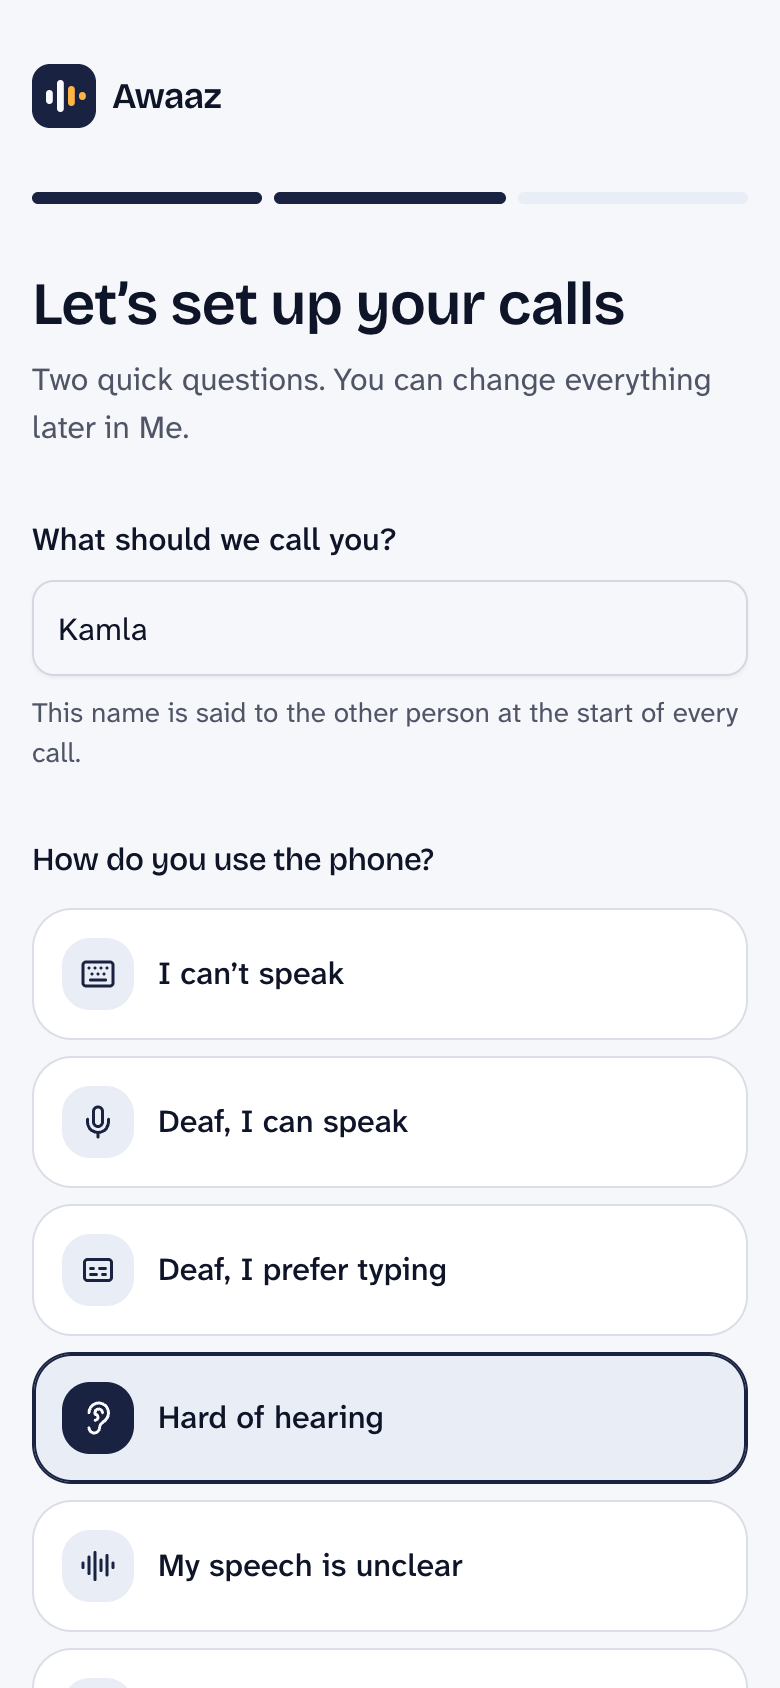
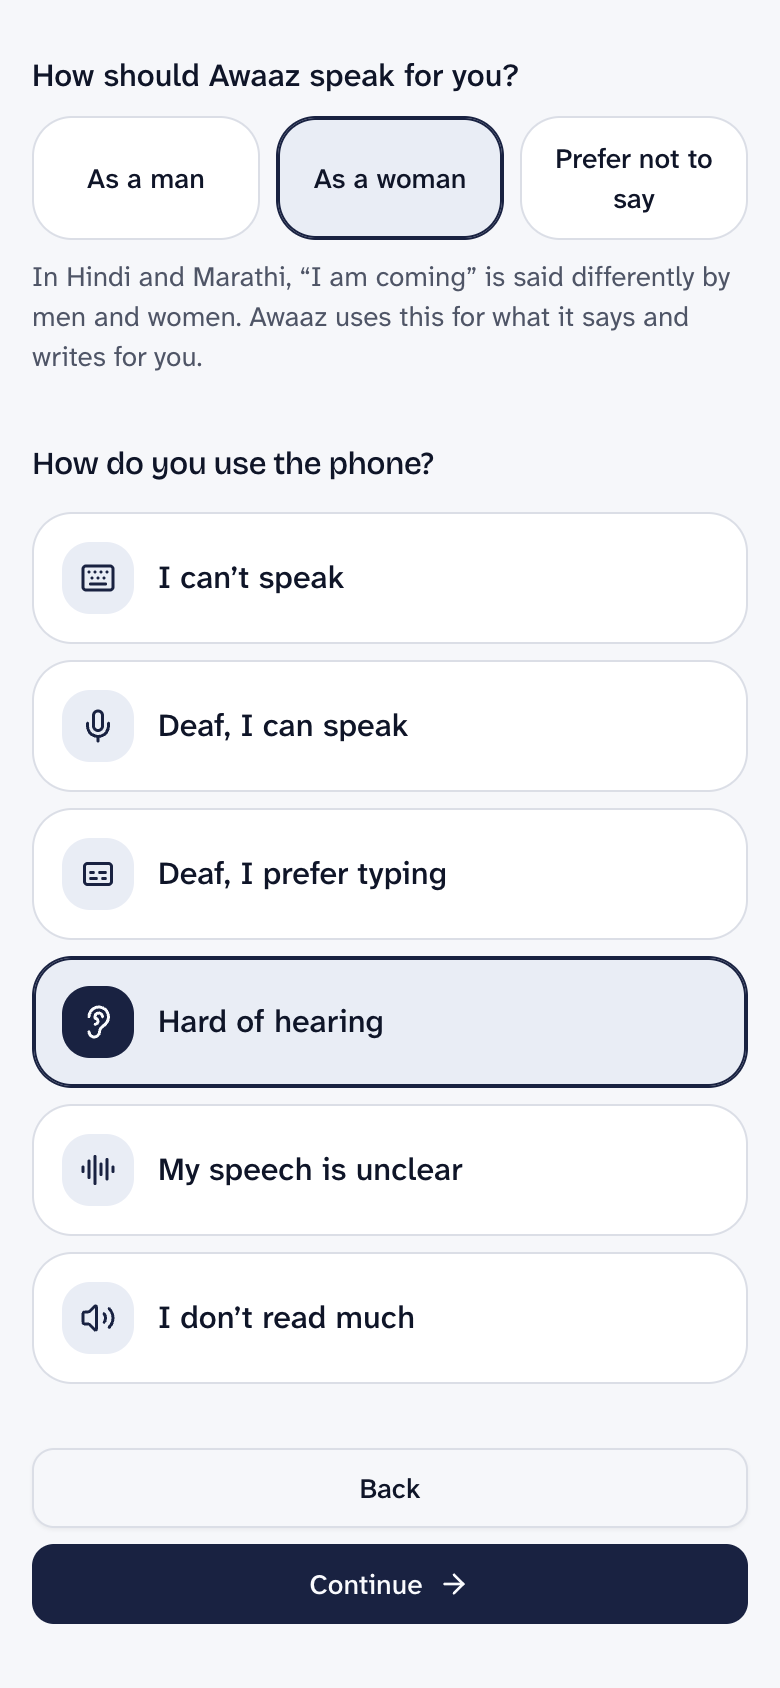
README: WhatsApp-style chat, instant sending, caption switching, gender, scam openers, live voice reconnect, profile fixes, test counts; MIT licence

diff --git a/README.md b/README.md
@@ -64,7 +64,7 @@ It is not a chatbot and it does not talk for the user. Nothing is said on the ca
 
 ## Screens
 
-| What we collect | Language first | Pick how you talk |
+| What we collect | Language first | Your name, gender and profile |
 |---|---|---|
 | <img src="docs/screenshots/12-consent.png" width="220"> | <img src="docs/screenshots/02-onboarding-language.png" width="220"> | <img src="docs/screenshots/03-onboarding-preset.png" width="220"> |
 
@@ -72,7 +72,7 @@ It is not a chatbot and it does not talk for the user. Nothing is said on the ca
 |---|
 | <img src="docs/screenshots/04-onboarding-options.png" width="220"> |
 
-| Calls home | Live call | Scam warning |
+| Calls home | Live call (WhatsApp-style chat) | Scam warning |
 |---|---|---|
 | <img src="docs/screenshots/05-home.png" width="220"> | <img src="docs/screenshots/06-call.png" width="220"> | <img src="docs/screenshots/10-scam.png" width="220"> |
 
@@ -90,29 +90,44 @@ The app is also available in Tamil (below) and ten other languages.
 - Outbound calls through a real phone line (Bolna), with a spoken opening line on every call.
 - **Practice calls**: scripted callers (a Hindi pharmacy, a Marathi clinic, a bank-scam caller) that need no phone. Smart replies, translation and drafts run live in them.
 - Keypad for phone menus (“press 1 for…”), “Ask again” to ask the other person to repeat, a confirm step before ending a call.
-- A “please hold” line while the user is typing, so the other person is not left in silence.
+- A “please hold” line while the user is typing, so the other person is not left in silence. It is said at most once every 20 seconds.
+- **Several messages in a row** are each spoken at once, even while the other person is quietly waiting. If the phone line is not ready, the chat says the message will be said as soon as they speak.
 - Daily and per-call minute limits.
 
 **Talking: choose any mix**
 - **Type, and Awaaz speaks.** Typing in Hindi, Marathi or English works; text in the call’s own script is spoken straight away.
 - **Phrases and smart replies.** Saved phrases, plus one-tap suggested answers after the other person speaks.
 - **Help me say it.** A few words in, a clear sentence out. The user approves it before it is spoken.
-- **Live voice: speak, Awaaz says it.** Tap the mic and talk normally. Each sentence is turned into text within a fraction of a second and spoken on the call by Awaaz’s voice, and the user sees every sentence in the chat. A switch lets the user check each sentence before it is sent instead.
+- **Live voice: speak, Awaaz says it.** Tap the mic and talk normally. Each sentence is turned into text within a fraction of a second and spoken on the call by Awaaz’s voice, and the user sees every sentence in the chat. A switch lets the user check each sentence before it is sent instead. If the speech service drops the connection, it reconnects by itself.
 - Typing in any Indian script with the phone’s own keyboard. If the user types in English letters, Awaaz offers the same text in their own script.
 - Text typed in a different language than the call’s is translated, shown, and spoken only after the user confirms.
+- **Sending feels instant.** A message appears the moment it is sent, and Awaaz prepares it (script conversion, translation) while the user is still typing, so it is usually ready by the time they press send.
+- **Speaks the way the user would.** Hindi and Marathi verbs change for men and women; onboarding asks how Awaaz should speak for the user (as a man, as a woman, or prefer not to say). Opening lines are gender-neutral unless the user chooses, and drafts, smart replies and translations follow the choice.
 
 **Hearing: choose any mix**
 - **Live captions** with big text, and prices, times and numbers highlighted.
 - **Translate for me.** Captions appear in the call’s language first, then the user’s language follows underneath, with the original always kept in view.
-- **Switch the caption language during the call.** The last few captions are translated again.
+- **Switch the caption language during the call** from a one-tap list. The last few captions are translated again, translations are remembered per language (switching back is instant), and lines still being translated say “Translating to …”.
 - **Read aloud.** Each thing the other person says is read out slowly in their exact words.
 - **Vibration cues** when the other person starts and stops speaking (Android and desktop Chrome).
 - **Summary after the call**: what was agreed, key numbers, next steps, and a Listen button.
 
+**The call chat (WhatsApp-style)**
+- Built to feel like WhatsApp: your messages in green bubbles on the right, theirs on the left, a pointed tail on the first bubble of each run, a “Today” divider, and the time inside every bubble.
+- Ticks show what happened to each message: a clock while it is being sent, a blue double tick once it has been said on the call.
+- The header shows the call timer (“Connected · 1:42”) and “speaking…” while the other person talks, with buttons for the caption language and ending the call.
+- The input bar grows with the message, the round button is the mic when the box is empty and send when it has text, and the keyboard stays open after sending. Enter sends on a computer and adds a line on a phone.
+- The screen sizes itself to the visible area, so the on-screen keyboard never covers the input bar, and quick replies sit above the input bar instead of over it.
+- If you scroll up to read, new captions do not pull you down; a button shows how many new lines arrived.
+- Tap a bubble to copy it, have it read aloud, or say it again.
+- Phrases are one tap from the input bar; the “+” opens the keypad, “Ask again”, Help me say it and the caption language.
+
 **Safety**
 - **Scam shield.** When someone asks for an OTP, PIN, UPI PIN, CVV or to install a remote-access app, Awaaz shows a red warning, refuses to speak any 4–8 digit number on that call, and logs the event.
+- **Scam openers are flagged too.** Calls that say a card, account, SIM or electricity will be blocked, mention KYC, a lottery or a refund, pretend to be a bank, police or courier, or push a link get a “This call may be a scam” warning before anyone asks for a code. Numbers are not read out from then on, and a later code request shows its own warning.
 - An opening line on every call says an assistant is helping. This cannot be turned off.
 - AI-drafted and translated text is shown first and spoken only after the user confirms.
+- Sign-in tokens and webhook secrets are kept out of the server logs.
 
 **Languages**
 - The whole app in **12 languages**: English, Hindi, Hinglish (Hindi in English letters), Marathi, Bengali, Tamil, Telugu, Kannada, Gujarati, Punjabi, Malayalam and Odia.
@@ -123,6 +138,7 @@ The app is also available in Tamil (below) and ten other languages.
 **Account and settings**
 - Sign in with Google or with email and password, followed by a one-time screen that says what is collected and asks for consent (stored with a version, so people are asked again if it changes).
 - Six starting profiles (for example “Deaf, I prefer typing”, “Hard of hearing”, “I can’t speak”), then fine-tune each option.
+- Profile changes (larger text, speech rate, app language, gender) save reliably and apply straight away; a save that loses its reply is checked with the server before an error is shown.
 - Contacts with favourites and notes that smart replies can use (“my BP medicine is Telma 40”).
 - Call history with transcripts, installable as a web app, light and dark themes, larger-text option.
 
@@ -131,11 +147,11 @@ The app is also available in Tamil (below) and ten other languages.
 ### Practice calls (everyone, no phone needed)
 1. Open **https://awaaz-web-sigma.vercel.app**. The first load can take up to a minute, because the free server sleeps when idle.
 2. Sign in with Google, or create an account with email and password. The first time, a **“Before you start”** screen lists exactly what Awaaz collects (email and name, an optional phone number, the numbers you call, call text; audio is not stored) and asks you to agree.
-3. Choose your language, enter your name, and pick a starting profile.
+3. Choose your language, enter your name, choose how Awaaz should speak for you, and pick a starting profile.
 4. On the home screen, scroll to **Practice calls** and tap one:
    - **Sharma Medical** (Hindi pharmacy): type “Telma 40 chahiye”, then try the caption-language switcher in the header.
    - **Netra Clinic** (Marathi clinic).
-   - **Unknown number** (bank scam): reply once and watch the scam shield appear when they ask for an OTP.
+   - **Unknown number** (bank scam): a “This call may be a scam” warning appears as soon as they say your card will be blocked; reply once and a second warning appears when they ask for an OTP.
 5. End the call, then open it from **Recent** to see the transcript and summary.
 
 ### Try a real call (verified numbers only)
@@ -175,7 +191,7 @@ The live-call protocol is documented in [`specs/protocol/`](specs/protocol/relay
 1. Every call starts with a line telling the other person an assistant is involved. It is not configurable.
 2. Nothing is said on a call without a user action, except that opening line and the “please hold” line.
 3. AI-drafted and translated text is shown to the user and spoken only after they confirm.
-4. The scam shield never speaks 4–8 digit numbers after an OTP, PIN, CVV or UPI PIN request, warns the user, and logs the event.
+4. The scam shield warns on scam openers and on any OTP, PIN, CVV, UPI PIN or remote-app request, never speaks 4–8 digit numbers after that, and logs the event.
 5. No caller-ID spoofing. Calls show the Awaaz line’s number.
 6. Audio is not stored; limits cap the minutes per call and per day.
 7. All demo names, numbers and conversations are fictional.
@@ -187,11 +203,11 @@ The live-call protocol is documented in [`specs/protocol/`](specs/protocol/relay
 | Web app | React 18, TypeScript, Vite (installable web app), Tailwind CSS v4, shadcn/ui, TanStack Query, i18next |
 | API | Python 3.12+ (3.14 in production), FastAPI, Pydantic v2, asyncio, httpx |
 | Phone calls | Bolna (custom-LLM relay agent) |
-| Speech and Indian languages | Sarvam (Saaras speech-to-text, translation, transliteration) |
+| Speech and Indian languages | Sarvam (Saaras streaming speech-to-text for live voice, translation, transliteration) |
 | AI | Gemini (smart replies, drafts, summaries, scam second opinion) |
 | Data and sign-in | Supabase (Postgres with row-level security, Auth) |
 | Hosting (all free tiers) | Vercel (web), Render (API), Supabase |
-| Tests | pytest (150 API tests), vitest (29 web tests), ruff |
+| Tests | pytest (171 API tests), vitest (34 web tests), ruff |
 
 ## Run it yourself
 
@@ -251,6 +267,7 @@ docs/             decisions, design, deploy notes, architecture for incoming cal
 - **Translations of the app are machine-made** and have not been reviewed by native speakers.
 - **Vibration cues** work on Android and desktop Chrome, not on iPhones. The read-aloud voice depends on the voices installed on the phone.
 - **Caption translation can drift on names and medicines.** The original text is always shown beneath it.
+- **The phone line only listens after the other person speaks.** Bolna asks Awaaz what to say right after the other person talks; Awaaz keeps that request open for a minute so several messages can be said in a row. After a minute of silence, a new message waits until they speak again (the chat says so).
 
 ## Future scope
 
@@ -285,4 +302,6 @@ These are designed or planned but **not built or not testable yet**.
 
 ## Credits and licence
 
-Built by Amit for the Bolna Buildathon. All names, phone numbers and conversations in the demos are fictional. No licence has been chosen yet; until one is added, all rights are reserved.
+Built by Amit Pile for the Bolna Buildathon. All names, phone numbers and conversations in the demos are fictional.
+
+Released under the [MIT License](LICENSE). Third-party services (Bolna, Sarvam, Gemini, Supabase) have their own terms; the machine-generated translations should be reviewed before use in production.
